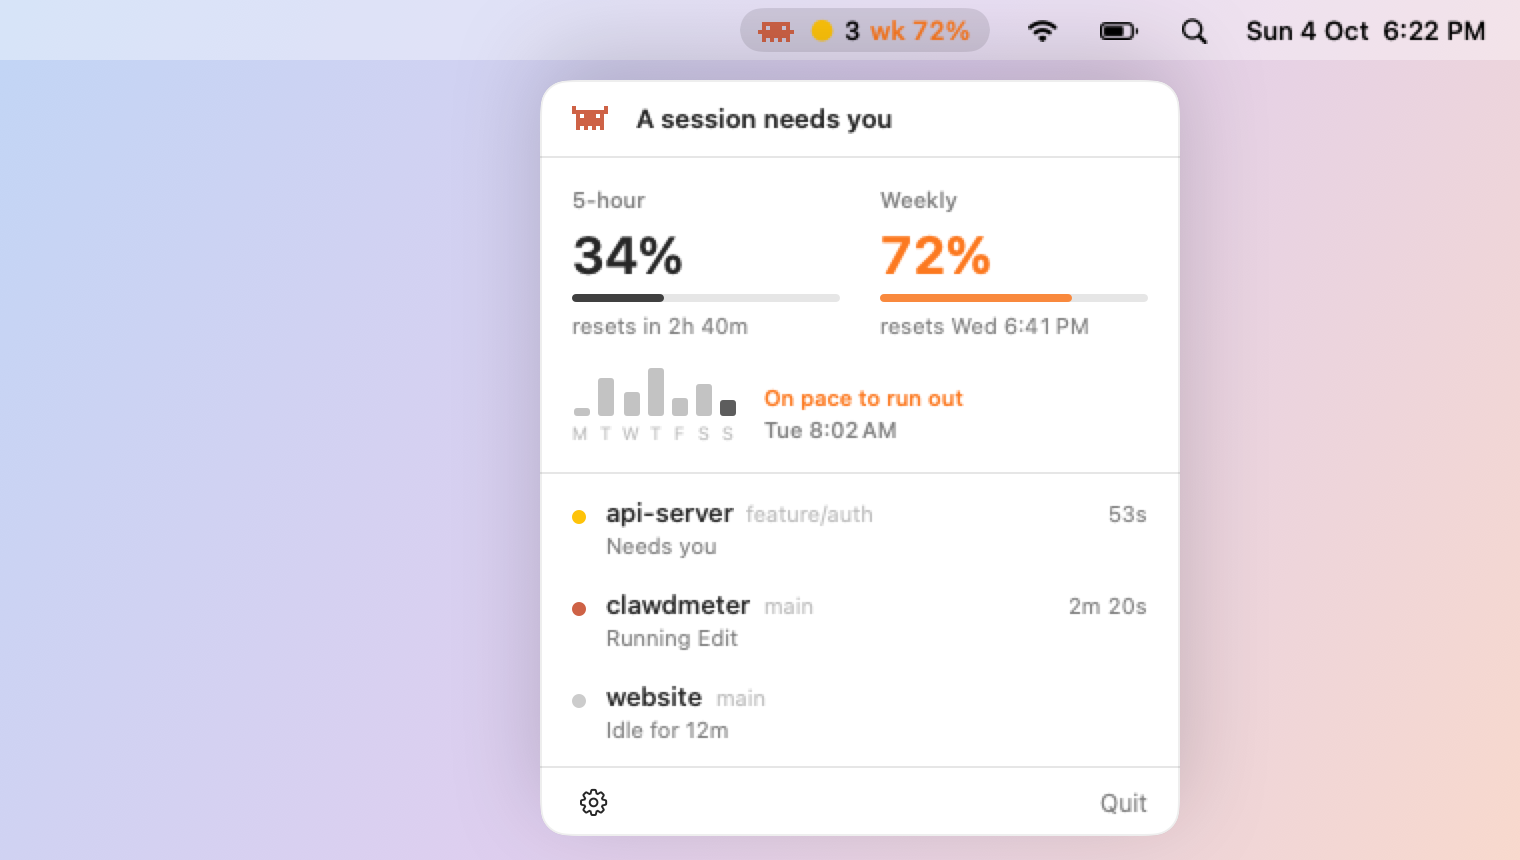
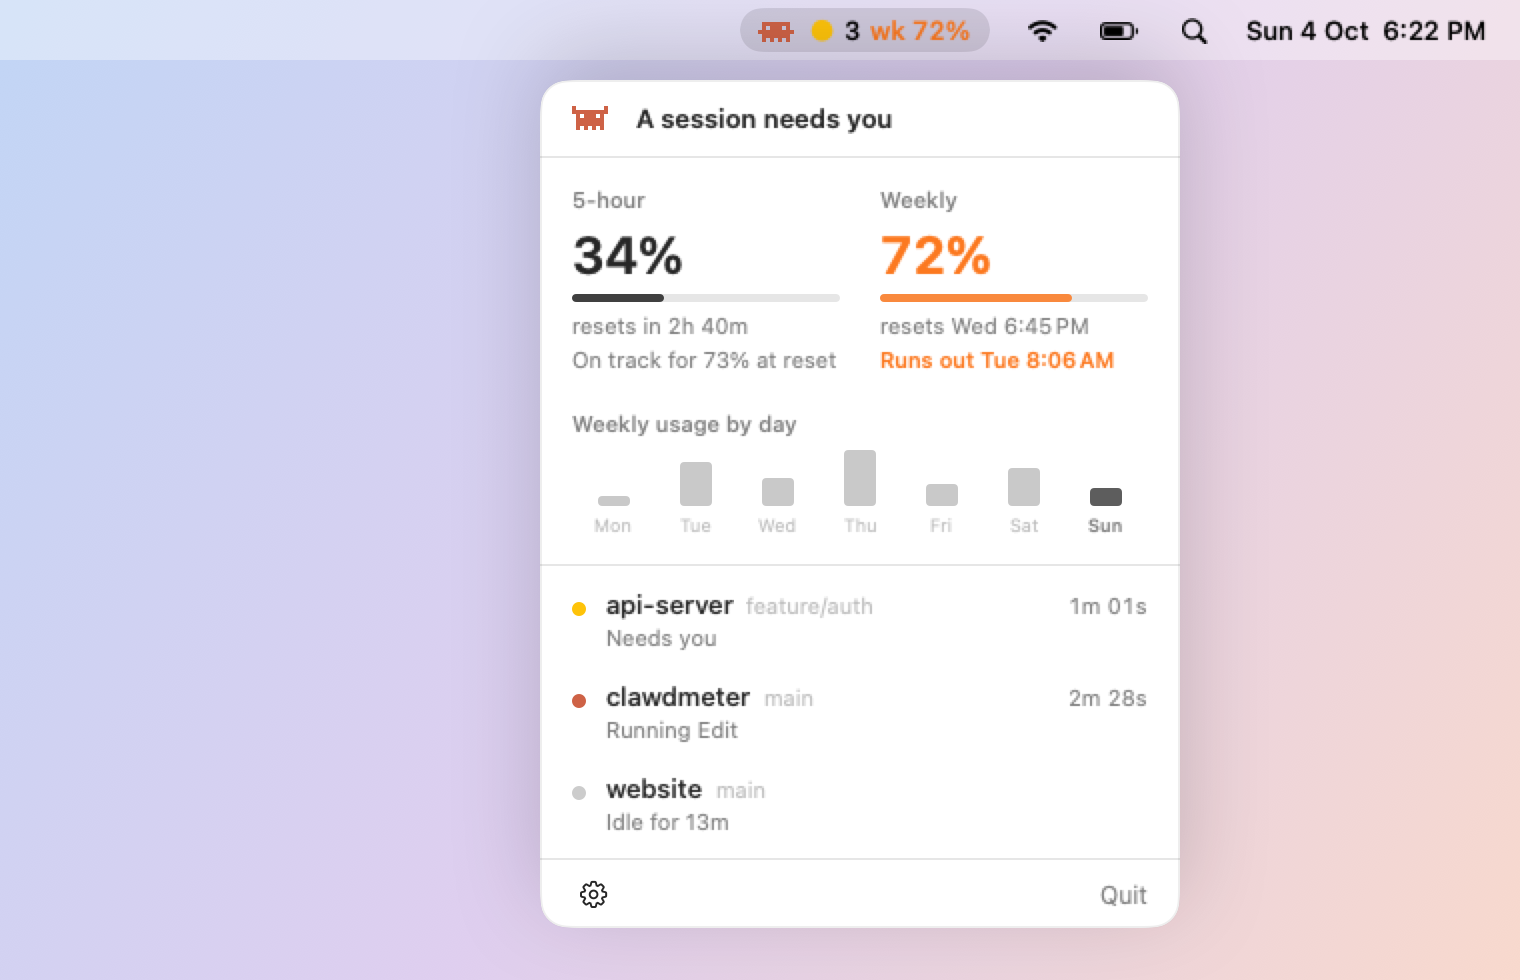
Forecast both limits and label the weekly chart

diff --git a/Sources/ClawdmeterApp/PopoverView.swift b/Sources/ClawdmeterApp/PopoverView.swift
@@ -100,10 +100,10 @@ private struct LimitsSection: View {
         if let limits {
             VStack(alignment: .leading, spacing: 10) {
                 HStack(alignment: .top, spacing: 20) {
-                    Meter(title: "5-hour", window: limits.fiveHour, resetStyle: .countdown)
-                    Meter(title: "Weekly", window: limits.sevenDay, resetStyle: .clock)
+                    Meter(title: "5-hour", window: limits.fiveHour, resetStyle: .countdown, period: 5 * 3600)
+                    Meter(title: "Weekly", window: limits.sevenDay, resetStyle: .clock, period: 7 * 86_400)
                 }
-                PaceRow(window: limits.sevenDay, dailyUsage: dailyUsage)
+                WeekChart(dailyUsage: dailyUsage)
                 if limits.isStale() {
                     Text("Last updated \(limits.updatedAt.formatted(date: .omitted, time: .shortened))")
                         .font(.system(size: 11)).foregroundStyle(.tertiary)
@@ -124,6 +124,7 @@ private struct Meter: View {
     let title: String
     let window: LimitWindow?
     let resetStyle: ResetStyle
+    let period: TimeInterval
 
     var body: some View {
         VStack(alignment: .leading, spacing: 5) {
@@ -134,8 +135,11 @@ private struct Meter: View {
                 .contentTransition(.numericText())
             bar
             TimelineView(.periodic(from: .now, by: 60)) { context in
-                Text(resetText(now: context.date))
-                    .font(.system(size: 11).monospacedDigit()).foregroundStyle(.secondary)
+                VStack(alignment: .leading, spacing: 3) {
+                    Text(resetText(now: context.date))
+                        .font(.system(size: 11).monospacedDigit()).foregroundStyle(.secondary)
+                    forecastText(now: context.date)
+                }
             }
         }
         .frame(maxWidth: .infinity, alignment: .leading)
@@ -151,6 +155,20 @@ private struct Meter: View {
             }
         }
         .frame(height: 4)
+    }
+
+    @ViewBuilder
+    private func forecastText(now: Date) -> some View {
+        switch window.flatMap({ Pace.forecast($0, period: period, now: now) }) {
+        case .hitsLimit(let at):
+            Text("Runs out \(resetStyle == .countdown ? at.formatted(date: .omitted, time: .shortened) : dayAndTime(at))")
+                .font(.system(size: 11, weight: .medium)).foregroundStyle(.orange)
+        case .onTrack(let projected):
+            Text("On track for \(projected)% at reset")
+                .font(.system(size: 11)).foregroundStyle(.secondary)
+        case nil:
+            EmptyView()
+        }
     }
 
     private func resetText(now: Date) -> String {
@@ -281,53 +299,34 @@ func elapsed(from start: Date, to end: Date, coarse: Bool = false) -> String {
     return "\(seconds / 3600)h \(seconds % 3600 / 60)m"
 }
 
-/// Weekly usage per day plus a plain-language forecast for the weekly limit.
-private struct PaceRow: View {
-    let window: LimitWindow?
+/// Weekly-limit usage per day for the last week; hidden until there's history.
+private struct WeekChart: View {
     let dailyUsage: [UsageHistory.Day]
 
     var body: some View {
-        let hasHistory = dailyUsage.contains { $0.amount > 0 }
-        let forecast = window.flatMap { Pace.forecast($0) }
-        if hasHistory || forecast != nil {
-            HStack(alignment: .bottom, spacing: 14) {
-                if hasHistory { chart }
-                if let forecast { forecastText(forecast) }
-                Spacer(minLength: 0)
-            }
-            .padding(.top, 4)
-        }
-    }
-
-    private var chart: some View {
-        let peak = max(dailyUsage.map(\.amount).max() ?? 1, 1)
-        return HStack(alignment: .bottom, spacing: 4) {
-            ForEach(Array(dailyUsage.enumerated()), id: \.offset) { index, day in
-                VStack(spacing: 3) {
-                    RoundedRectangle(cornerRadius: 1.5)
-                        .fill(index == dailyUsage.count - 1 ? Color.primary.opacity(0.75) : Color.primary.opacity(0.28))
-                        .frame(width: 8, height: max(2, 24 * day.amount / peak))
-                        .frame(height: 24, alignment: .bottom)
-                    Text(day.date.formatted(.dateTime.weekday(.narrow)))
-                        .font(.system(size: 9)).foregroundStyle(.tertiary)
+        if dailyUsage.filter({ $0.amount > 0 }).count >= 2 {
+            let peak = max(dailyUsage.map(\.amount).max() ?? 1, 1)
+            VStack(alignment: .leading, spacing: 6) {
+            Text("Weekly usage by day").font(.system(size: 11, weight: .medium)).foregroundStyle(.secondary)
+            HStack(alignment: .bottom, spacing: 0) {
+                ForEach(Array(dailyUsage.enumerated()), id: \.offset) { index, day in
+                    let today = index == dailyUsage.count - 1
+                    VStack(spacing: 4) {
+                        RoundedRectangle(cornerRadius: 2)
+                            .fill(Color.primary.opacity(today ? 0.75 : 0.25))
+                            .frame(width: 16, height: max(2, 28 * day.amount / peak))
+                            .frame(height: 28, alignment: .bottom)
+                        Text(day.date.formatted(.dateTime.weekday(.abbreviated)))
+                            .font(.system(size: 9, weight: today ? .semibold : .regular))
+                            .foregroundStyle(today ? .secondary : .tertiary)
+                    }
+                    .frame(maxWidth: .infinity)
+                    .help("\(Int(day.amount.rounded()))% of the weekly limit")
                 }
-                .help("\(day.date.formatted(.dateTime.weekday(.wide))): \(Int(day.amount.rounded()))% of the weekly limit")
             }
-        }
-    }
-
-    private func forecastText(_ forecast: PaceForecast) -> some View {
-        VStack(alignment: .leading, spacing: 2) {
-            switch forecast {
-            case .hitsLimit(let at):
-                Text("On pace to run out").foregroundStyle(.orange)
-                Text(dayAndTime(at)).foregroundStyle(.secondary)
-            case .onTrack(let projected):
-                Text("On track")
-                Text("About \(projected)% by reset").foregroundStyle(.secondary)
             }
+            .padding(.top, 8)
         }
-        .font(.system(size: 11, weight: .medium))
     }
 }
 

diff --git a/Tests/ClawdmeterCoreTests/PaceTests.swift b/Tests/ClawdmeterCoreTests/PaceTests.swift
@@ -21,6 +21,13 @@ import Testing
         #expect(Pace.forecast(window(20, resetIn: 5), now: now) == .onTrack(projected: 70))
     }
 
+    @Test func fiveHourWindowForecastsAfterFortyFiveMinutes() {
+        let window = LimitWindow(usedPercentage: 30, resetsAt: now.addingTimeInterval(3 * 3600))
+        #expect(Pace.forecast(window, period: 5 * 3600, now: now) == .onTrack(projected: 75))
+        let early = LimitWindow(usedPercentage: 30, resetsAt: now.addingTimeInterval(4.5 * 3600))
+        #expect(Pace.forecast(early, period: 5 * 3600, now: now) == nil)
+    }
+
     @Test func tooEarlyOrTooLittleIsHidden() {
         #expect(Pace.forecast(window(30, resetIn: 6.9), now: now) == nil)
         #expect(Pace.forecast(window(3, resetIn: 4), now: now) == nil)

diff --git a/Sources/ClawdmeterCore/Pace.swift b/Sources/ClawdmeterCore/Pace.swift
@@ -13,7 +13,7 @@ public enum Pace {
         else { return nil }
         let start = reset.addingTimeInterval(-period)
         let elapsed = now.timeIntervalSince(start)
-        guard elapsed >= 6 * 3600 else { return nil }
+        guard elapsed >= min(6 * 3600, period * 0.15) else { return nil }
         let projected = window.usedPercentage * period / elapsed
         if projected >= 100 {
             return .hitsLimit(at: start.addingTimeInterval(elapsed * 100 / window.usedPercentage))

diff --git a/README.md b/README.md
@@ -47,8 +47,8 @@ Next to Clawd, `wk 86%` shows whichever limit is closest to running out (`5h` or
 
 Click Clawd to see:
 
-- **Both limits** with their reset times.
-- **Your week so far:** a bar for each day's usage, and whether you're on track or will run out before the reset.
+- **Both limits** with their reset times, and a forecast for each: on track, or when you'll run out at your current pace.
+- **Your week so far:** a bar for each day's share of the weekly limit.
 - **Every session** with its folder, git branch and what it's doing. **Click a session to jump to it.** Terminal and iTerm2 open the exact tab (macOS asks once for permission), tmux switches to the right pane, VS Code, Cursor and Zed open the project window, and other apps come to the front.
 
 The gear menu has the settings, including **Launch at login** so Clawdmeter is always there when you start your Mac.
